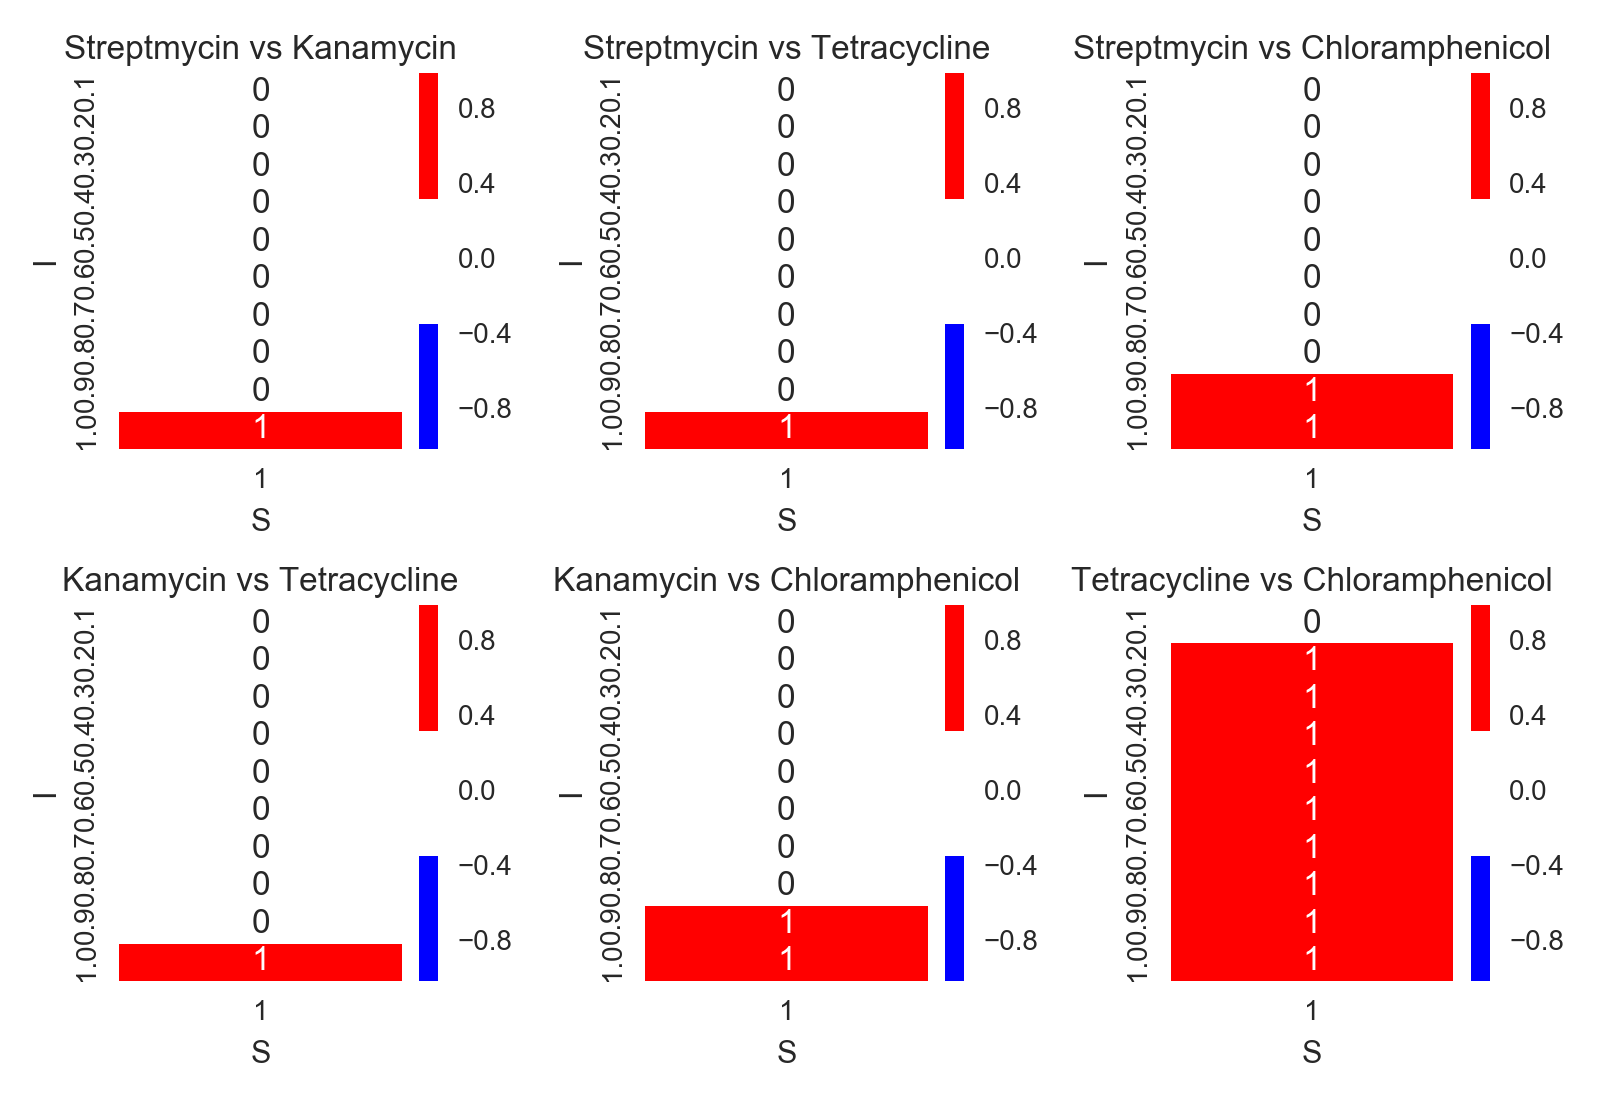
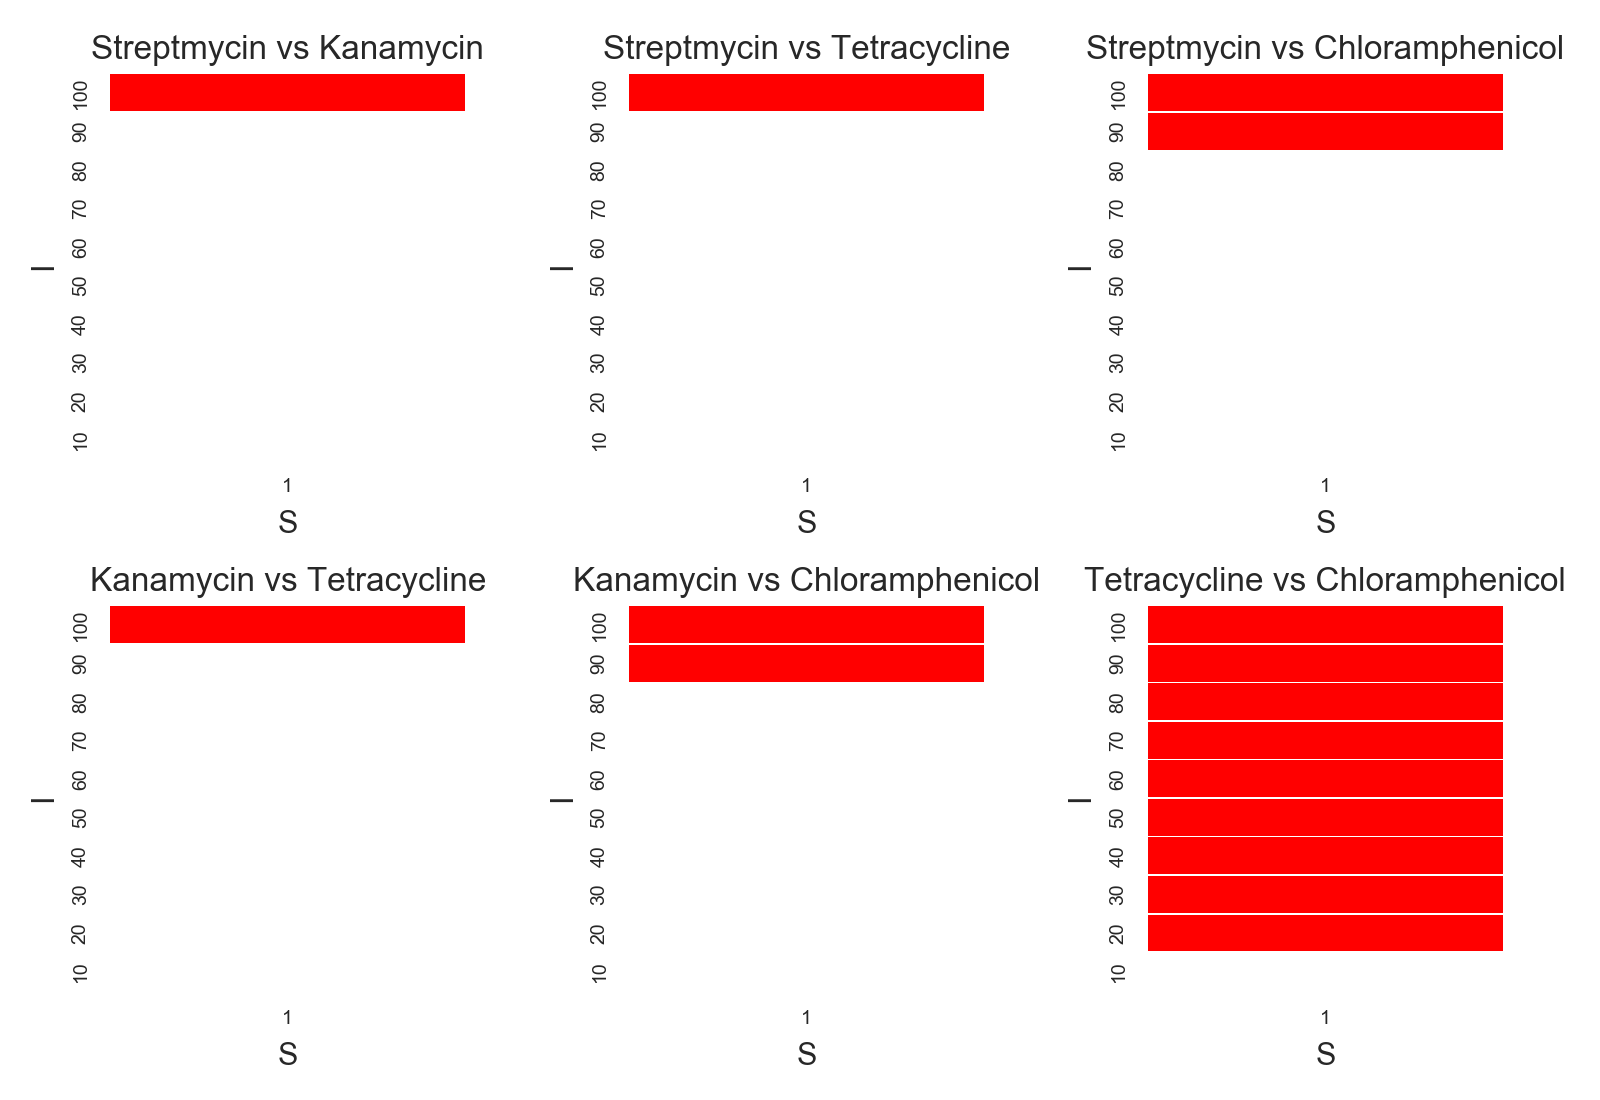
グラフの微修正

diff --git a/ribo4.py b/ribo4.py
@@ -281,11 +281,11 @@ def checkLinerType(a):
                     count += 1
                     before = after
         num = i
-    if count == 0:
+    if count == 0: # 単調増加 or 単調減少(additive)
         linertype = 0
-    elif count > 0 and linertype == 0:
+    elif count > 0 and linertype == 0: # 上に凸(synergetic)
         linertype = -1
-    elif count > 0 and linertype == 1:
+    elif count > 0 and linertype == 1: # 下に凸(antagonistic)
         lienrtype = 1
     return linertype
 
@@ -335,6 +335,7 @@ if __name__ == "__main__":
         IC30[dName] = dose
 
     drug_comb = list(itr.combinations(dNames, 2)) # 薬剤の組み合わせ
+    # drug_comb = [[dNames[0], dNames[1]]] # 薬剤の組み合わせ
 
     cmap = makeCmap({"blue": 1, "white": 1, "red": 1},
                     {"red": "#ff0000", "white": "#ffffff", "blue": "#0000ff"},
@@ -361,12 +362,14 @@ if __name__ == "__main__":
                     result, legend = run(drugs, step=100, legend=["r_u"])
                     result_list.append(calcGrowthrate(result[-1][1]))
                 linertype = checkLinerType(result_list)
-                data = data.append(pd.DataFrame([[1, i/10., linertype]], columns=["S", "I", "growth_type"]))
+                data = data.append(pd.DataFrame([[1, i*10, linertype]], columns=["S", "I", "growth_type"]))
 
         heatmap = pd.pivot_table(data=data, values="growth_type", index="I", columns="S") # x軸を0, y軸を1番目の薬剤にしてグラフデータ化
         plt.subplot(230 + index + 1) # 1つの画像データに集約
-        sns.heatmap(heatmap, vmin=-1, vmax=1, cmap=cmap, annot=True)
-        plt.axis(fontsize=3)
+        sns.heatmap(heatmap, vmin=-1, vmax=1, cmap=cmap, cbar=False, linewidths=.3)
+        ax = plt.gca()
+        ax.invert_yaxis() # ヒートマップのy軸の逆転
+        plt.tick_params(labelsize=7)
         plt.ylabel("I")
         plt.xlabel("S")
         plt.title("{} vs {}".format(dList[0], dList[1]))
